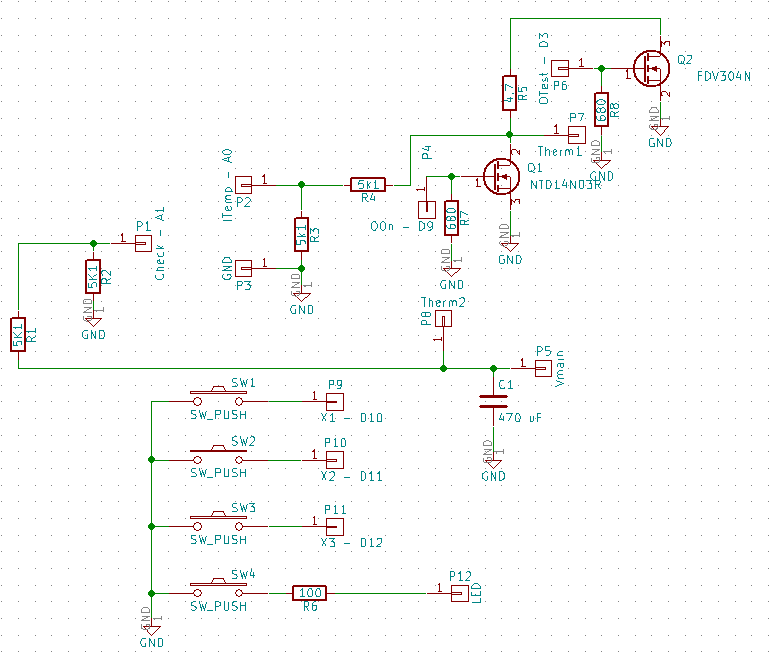
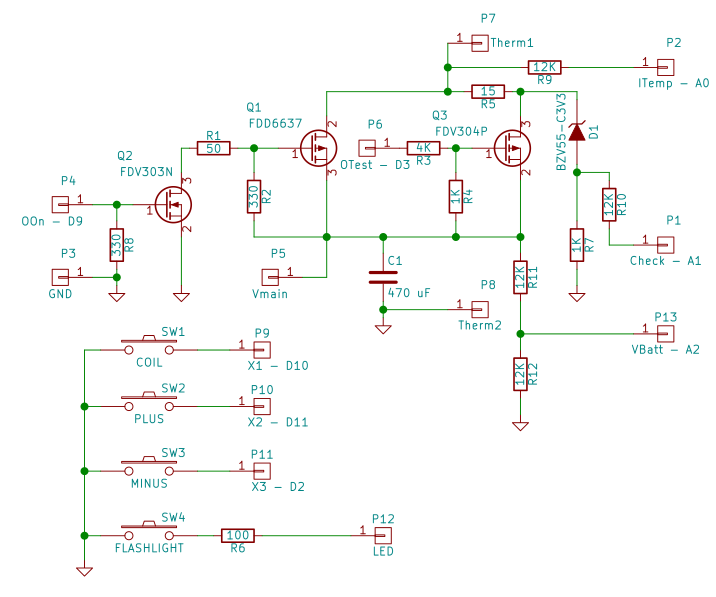
New schematics with P-FETs (improved stability)

diff --git a/README.md b/README.md
@@ -3,4 +3,6 @@ Vaping mod based on arduino pro mini with thermocontrol and other functions
 
 This mod works with 2S (two cells) Li-Ion/PO batteries. I've used one for RC models - 25/35C 500 mAh. Resistor R5 should be 0.25 watts at least. 
 
-There small error on the schematics - minus button should be connected to D2, not D12. The "LED" output is for flashlight's leds.
+The "LED" output is for flashlight's leds.
+
+Note, this branch is for version 2 (with P-FETs), use branch "OLD_5V_AREF" for version 1 schematics.
